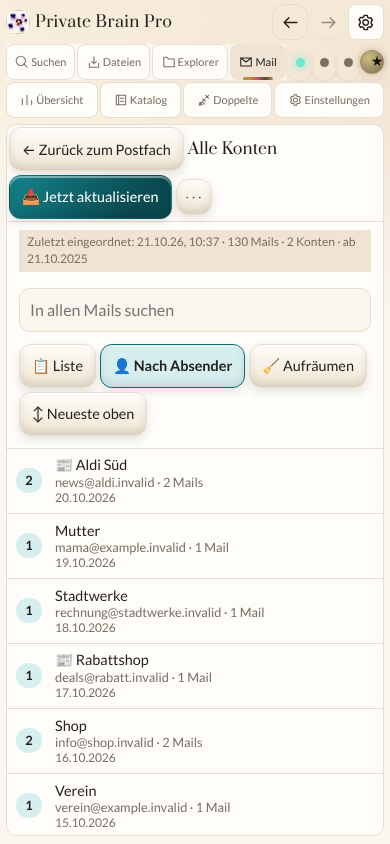
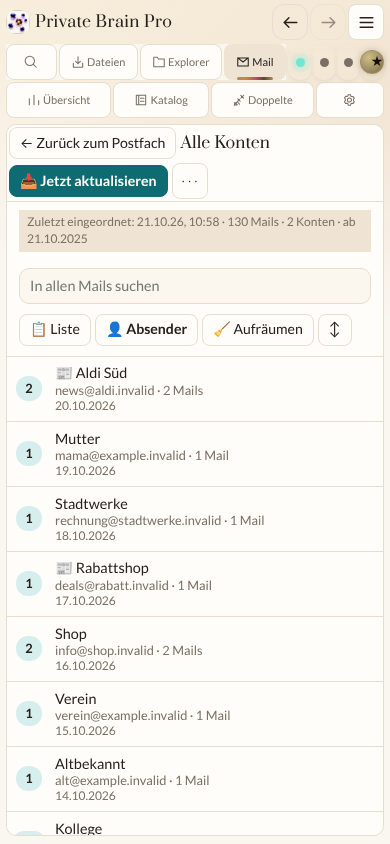
Explorer neueste oben mit ↕ und Inhaltssuche; flache Knöpfe; Lupe, Zahnrad und ☰
A3: Explorer zeigt die neuesten Dateien oben, ↕ dreht jede Sortierung um,
„auch im Inhalt“ sucht im Katalogtext; Mails aus „Alle Konten“ stehen nicht mehr
im Explorer. Auf Klaus' Wunsch flache Knöpfe (32 px, ohne 3D-Schatten) im
Postfach, in „Alle Konten“ und im Explorer; in der oberen Leiste stehen Suche und
Einstellungen nur noch als Lupe und Zahnrad, das App-Menü zeigt ☰ statt eines
zweiten Zahnrads.

Claude-Session: https://claude.ai/code/session_015dv9kh7qAxSqSbKYy1eETd

Changed region(s): [[0.0, 0.0616, 0.9538, 1.0], [0.6154, 0.5853, 0.6769, 0.6469], [0.9231, 0.0, 0.9538, 0.0616]]

diff --git a/assets/workspace.js b/assets/workspace.js
@@ -10,7 +10,7 @@
     libraryHelp:['Wähle einen separaten Ordner auf deinem Gerät. Neue Dateien werden dort als Kopie gespeichert; die Originale bleiben erhalten. Der Explorer öffnet die Kopien aus diesem Ordner.','Choose a separate folder on your device. New files are saved there as copies; originals are preserved. Explorer opens the copies from that folder.','Выберите отдельную папку на устройстве. Новые файлы сохраняются туда как копии; оригиналы остаются. Проводник открывает копии из этой папки.','Wybierz osobny folder na urządzeniu. Nowe pliki są tam zapisywane jako kopie; oryginały pozostają. Eksplorator otwiera kopie z tego folderu.'],
     choose:['Ablageordner wählen','Choose library folder','Выбрать папку','Wybierz folder'],pause:['Kopieren ausschalten','Turn off copying','Отключить копирование','Wyłącz kopiowanie'],
     copyFolder:['📁 Ordner in Ablage kopieren','📁 Copy folder to library','📁 Копировать папку','📁 Kopiuj folder do biblioteki'],linkFolder:['📁 Ordner verbinden','📁 Connect folder','📁 Подключить папку','📁 Połącz folder'],
-    up:['↑ Übergeordneter Ordner','↑ Parent folder','↑ На уровень выше','↑ Folder nadrzędny'],all:['Alle Dateien','All files','Все файлы','Wszystkie pliki'],byName:['Name A–Z','Name A–Z','Имя А–Я','Nazwa A–Z'],byDate:['Neueste zuerst','Newest first','Сначала новые','Najnowsze'],bySize:['Größe','Size','Размер','Rozmiar'],
+    up:['↑ Übergeordneter Ordner','↑ Parent folder','↑ На уровень выше','↑ Folder nadrzędny'],all:['Alle Dateien','All files','Все файлы','Wszystkie pliki'],byName:['Name','Name','Имя','Nazwa'],byDate:['Datum','Date','Дата','Data'],bySize:['Größe','Size','Размер','Rozmiar'],orderName:['↕ A → Z','↕ A → Z','↕ А → Я','↕ A → Z'],orderNameR:['↕ Z → A','↕ Z → A','↕ Я → А','↕ Z → A'],orderDate:['↕ Neueste oben','↕ Newest first','↕ Сначала новые','↕ Najnowsze u góry'],orderDateR:['↕ Älteste oben','↕ Oldest first','↕ Сначала старые','↕ Najstarsze u góry'],orderSize:['↕ Größte oben','↕ Largest first','↕ Сначала большие','↕ Największe u góry'],orderSizeR:['↕ Kleinste oben','↕ Smallest first','↕ Сначала маленькие','↕ Najmniejsze u góry'],inContent:['🔎 auch im Inhalt','🔎 also in content','🔎 также в содержимом','🔎 także w treści'],
     find:['Was möchtest du finden?','What would you like to find?','Что вы хотите найти?','Co chcesz znaleźć?'],findHelp:['Durchsuche E-Mails, Dokumente und Bilder gemeinsam nach ihrer Bedeutung.','Search emails, documents and images together by meaning.','Ищите письма, документы и изображения вместе по смыслу.','Szukaj wiadomości, dokumentów i obrazów według znaczenia.'],
     noFolder:['Noch kein Ablageordner gewählt. Einzeln gewählte Dateien sind nur in dieser Sitzung verfügbar. Für dauerhaften Zugriff einen Ordner verbinden oder einen Ablageordner wählen.','No library folder selected. Individually selected files are available for this session only. Connect a folder or choose a library for lasting access.','Папка не выбрана. Отдельно выбранные файлы доступны только в этом сеансе. Подключите папку для постоянного доступа.','Nie wybrano folderu. Wybrane pliki są dostępne tylko w tej sesji. Połącz folder, aby zachować dostęp.'],
     unsupported:['Dieser Browser unterstützt keine direkte Ordnerablage. Dateiimport und Suche funktionieren; Dateien müssen nach einem Neustart erneut ausgewählt werden. Für lokale Ordner Chrome oder Edge auf einem unterstützten Desktop verwenden.','This browser does not support direct folder storage. File import and search work; select files again after restarting. For local folders use Chrome or Edge on a supported desktop.','Браузер не поддерживает прямую запись в папку. Импорт и поиск работают; после перезапуска выберите файлы снова. Для папок используйте Chrome или Edge на поддерживаемом компьютере.','Przeglądarka nie obsługuje zapisu do folderu. Import i wyszukiwanie działają; po ponownym uruchomieniu wybierz pliki jeszcze raz. Dostęp do folderów wymaga obsługiwanej przeglądarki Chrome lub Edge na komputerze.'],
@@ -105,6 +105,8 @@
   function entries() {
     const out=[];
     for (const r of CATALOG) {
+      // Mails from "Alle Konten" have their own view; thousands of them would swamp the explorer.
+      if (r.mailIndex && !r.mailLegacy) continue;
       const locs = r.localSource ? [r.localSource] : [{path:r.path || r.name,dirId:r.dirId},...(r.dupes||[])];
       for (const loc of locs) out.push({r,path:loc.path||r.name,dirId:loc.dirId});
     }
@@ -121,10 +123,33 @@
     } catch (_) { toast(text('unavailable'),6000); }
   }
   function button(label, action) { const b=document.createElement('button');b.type='button';b.className='ghost';b.textContent=label;b.onclick=action;return b; }
-  function explorerState(){return {path:folderPath,filter:el('explorerFilter').value,sort:el('explorerSort').value};}
+  // Newest on top by default; ↕ turns any order around; the content switch also searches the file text.
+  let explorerReverse=false;
+  const orderBox=document.createElement('span');orderBox.className='explorer-order';
+  const orderButton=document.createElement('button');orderButton.type='button';orderButton.className='ghost';orderButton.id='explorerOrder';
+  const contentLabel=document.createElement('label');contentLabel.className='explorer-content';
+  const contentBox=document.createElement('input');contentBox.type='checkbox';contentBox.id='explorerContent';
+  const contentText=document.createElement('span');contentLabel.append(contentBox,contentText);orderBox.append(orderButton,contentLabel);
+  el('explorerSort').after(orderBox);
+  if(!el('explorerSort').dataset.chosen)el('explorerSort').value='date';
+  function orderLabel(){const k={name:'orderName',date:'orderDate',size:'orderSize'}[el('explorerSort').value]||'orderDate';orderButton.textContent=text(k+(explorerReverse?'R':''));orderButton.setAttribute('aria-pressed',String(explorerReverse));contentText.textContent=text('inContent');}
+  orderButton.onclick=()=>{explorerReverse=!explorerReverse;renderExplorer();};
+  contentBox.onchange=()=>renderExplorer();
+  function explorerState(){return {path:folderPath,filter:el('explorerFilter').value,sort:el('explorerSort').value,reverse:explorerReverse,content:contentBox.checked};}
   function restoreExplorer(state){
     folderPath=String(state?.path||'');el('explorerFilter').value=String(state?.filter||'');
-    el('explorerSort').value=['name','date','size'].includes(state?.sort)?state.sort:'name';renderExplorer();
+    el('explorerSort').value=['name','date','size'].includes(state?.sort)?state.sort:'date';
+    explorerReverse=state?.reverse===true;contentBox.checked=state?.content===true;renderExplorer();
+  }
+  const foldText=s=>String(s||'').toLocaleLowerCase().normalize('NFD').replace(/[\u0300-\u036f]/g,'').replace(/ß/g,'ss');
+  function explorerMatch(e,words){
+    if(!words.length)return true;
+    const name=foldText(e.r.name+' '+e.path);
+    if(words.every(w=>name.includes(w)))return true;
+    if(!contentBox.checked)return false;
+    const body=foldText([e.r.snippet,e.r.summary,e.r.mailBody,e.r.ocrText,e.r.caption].filter(Boolean).join(' '));
+    const stems=e.r.tf||{};
+    return words.every(w=>body.includes(w)||(typeof stem==='function'&&Object.hasOwn(stems,stem(w))));
   }
   function openFolder(path,{clear=false}={}){
     if(window.PBNavigation)return window.PBNavigation.folder(path,clear);
@@ -146,10 +171,11 @@
     if(extra?.owns(folderPath)){el('explorerPath').textContent=extra.label();el('explorerUp').disabled=false;extra.files(files,el('explorerFilter').value,el('explorerSort').value);return;}
     el('explorerPath').textContent=folderPath || text('all');
     el('explorerUp').disabled=!folderPath;
-    const filter=el('explorerFilter').value.toLocaleLowerCase();
-    const visible=all.filter(e=>(!folderPath || e.path.startsWith(folderPath+'/')) && (e.r.name+' '+e.path).toLocaleLowerCase().includes(filter));
-    const sort=el('explorerSort').value;
-    visible.sort((a,b)=>sort==='date'?b.r.date-a.r.date:sort==='size'?b.r.size-a.r.size:a.r.name.localeCompare(b.r.name));
+    orderLabel();
+    const words=foldText(el('explorerFilter').value).split(/\s+/).filter(Boolean);
+    const visible=all.filter(e=>(!folderPath || e.path.startsWith(folderPath+'/')) && explorerMatch(e,words));
+    const sort=el('explorerSort').value, flip=explorerReverse?-1:1;
+    visible.sort((a,b)=>flip*(sort==='date'?(b.r.date||0)-(a.r.date||0):sort==='size'?(b.r.size||0)-(a.r.size||0):a.r.name.localeCompare(b.r.name)));
     for (const e of visible) {
       const row=document.createElement('article');row.className='explorer-row';
       const info=document.createElement('div'), name=document.createElement('strong'), meta=document.createElement('div');
@@ -177,7 +203,7 @@
   }
   el('chooseLibrary').onclick=chooseLibrary;
   el('pauseLibrary').onclick=()=>{if(signing)return;library=null;localStorage.setItem('pb_library_enabled','0');refresh();};
-  el('explorerFilter').oninput=renderExplorer;el('explorerSort').onchange=renderExplorer;
+  el('explorerFilter').oninput=renderExplorer;el('explorerSort').onchange=()=>{el('explorerSort').dataset.chosen='1';explorerReverse=false;renderExplorer();};
   el('explorerHome').onclick=()=>openFolder('',{clear:true});
   el('explorerUp').onclick=()=>openFolder(folderPath.split('/').slice(0,-1).join('/'));
   new MutationObserver(refresh).observe(document.documentElement,{attributes:true,attributeFilter:['lang']});

diff --git a/native/native-toolbar.js b/native/native-toolbar.js
@@ -12,6 +12,7 @@
   const text=i=>(strings[document.documentElement.lang]||strings.de)[i];
   const captions={de:['Suchen','Dateien','Explorer','Mail','Übersicht','Katalog','Doppelte','Einstellungen'],en:['Search','Files','Explorer','Mail','Overview','Catalog','Duplicates','Settings'],ru:['Поиск','Файлы','Проводник','Почта','Обзор','Каталог','Дубликаты','Настройки'],pl:['Szukaj','Pliki','Eksplorator','Poczta','Pulpit','Katalog','Duplikaty','Ustawienia']};
   const pages=['search','intake','explorer','mail','dash','order','dupes','settings'];
+  const ICON_ONLY=new Set(['search','settings']);
   const paths={
     search:'M21 21l-5-5 M18 10a8 8 0 1 1-16 0 8 8 0 0 1 16 0',
     intake:'M12 3v12m-4-4 4 4 4-4 M4 14v7h16v-7',
@@ -21,7 +22,7 @@
     settings:'m9 3-.5 2-2 1-2-.5-2 3 1.5 1.5v3L2.5 15l2 3 2-.5 2 1L9 21h4l.5-2.5 2-1 2 .5 2-3-1.5-1.5v-3L19.5 9l-2-3-2 .5-2-1L13 3Z M14.5 12a3.5 3.5 0 1 1-7 0 3.5 3.5 0 0 1 7 0',
     back:'M20 12H4m6-6-6 6 6 6',next:'M4 12h16m-6-6 6 6-6 6',
     refresh:'M20 7V3l-4 4 M20 7a9 9 0 1 0 1 8',compose:'M14 5 19 10 M4 20l5-1L21 7l-5-5L4 14Z',
-    more:'M4 12h.1m7.9 0h.1m7.9 0h.1',reply:'m9 5-7 7 7 7V14c6 0 10 1 13 5-1-8-5-11-13-11Z',
+    more:'M4 12h.1m7.9 0h.1m7.9 0h.1',menu:'M4 6h16M4 12h16M4 18h16',reply:'m9 5-7 7 7 7V14c6 0 10 1 13 5-1-8-5-11-13-11Z',
     forward:'m15 5 7 7-7 7V14c-6 0-10 1-13 5 1-8 5-11 13-11Z',
     trash:'M3 6h18M9 6V3h6v3M5 6l1 15h12l1-15M10 10v7m4-7v7',
     all:'M5 5h14v14H5Z m3 7 3 3 5-6',view:'M4 3h16v18H4Z m4-13h8m-8 4h8m-8 4h6',
@@ -46,7 +47,9 @@
       node.append(icon(key),content);node.classList.add('compact-tool');
     }
     node.setAttribute('aria-label',label);node.title=label;
-    if(node.dataset.tab){
+    // Klaus 2026-10-21: magnifier and gear are self-explanatory; their words go, the name stays as tooltip.
+    if(node.dataset.tab&&ICON_ONLY.has(node.dataset.tab)){node.querySelector(':scope>.compact-caption')?.remove();node.classList.add('compact-icon-only');}
+    else if(node.dataset.tab){
       const value=(captions[document.documentElement.lang]||captions.de)[pages.indexOf(node.dataset.tab)];
       let caption=node.querySelector(':scope>.compact-caption');if(!caption){caption=make('span','compact-caption');caption.setAttribute('aria-hidden','true');node.append(caption);}
       if(caption.textContent!==value)caption.textContent=value;
@@ -119,7 +122,7 @@
     if(moreTitle.textContent!==text(0))moreTitle.textContent=text(0);
     if(optionsTitle.textContent!==text(1))optionsTitle.textContent=text(1);
     // Avoid rewriting the label/SVG when no translation has changed.
-    decorate(moreTitle,'more');decorate(optionsTitle,'settings');networkLabel();
+    decorate(moreTitle,'more');decorate(optionsTitle,'menu');networkLabel();
     document.querySelectorAll('.native-toolbar-row .tab').forEach(button=>decorate(button,button.dataset.tab));
     const navigation=document.querySelectorAll('.native-navigation button');decorate(navigation[0],'back');decorate(navigation[1],'next');
     decorate(document.querySelector('#themeToggle'),'moon');decorate(document.querySelector('#hardReload'),'refresh');

diff --git a/native/native-mail-index.js b/native/native-mail-index.js
@@ -33,9 +33,11 @@
     search: ['In allen Mails suchen', 'Search all emails', 'Поиск по всем письмам', 'Szukaj we wszystkich wiadomościach'],
     hits: ['Treffer', 'results', 'найдено', 'wyników'],
     list: ['📋 Liste', '📋 List', '📋 Список', '📋 Lista'],
-    senders: ['👤 Nach Absender', '👤 By sender', '👤 По отправителю', '👤 Według nadawcy'],
-    newest: ['↕ Neueste oben', '↕ Newest first', '↕ Сначала новые', '↕ Najnowsze u góry'],
-    oldest: ['↕ Älteste oben', '↕ Oldest first', '↕ Сначала старые', '↕ Najstarsze u góry'],
+    senders: ['👤 Absender', '👤 Senders', '👤 Отправители', '👤 Nadawcy'],
+    newest: ['Neueste', 'Newest', 'Новые', 'Najnowsze'],
+    oldest: ['Älteste', 'Oldest', 'Старые', 'Najstarsze'],
+    newestLong: ['Neueste oben', 'Newest first', 'Сначала новые', 'Najnowsze u góry'],
+    oldestLong: ['Älteste oben', 'Oldest first', 'Сначала старые', 'Najstarsze u góry'],
     back: ['← Alle Absender', '← All senders', '← Все отправители', '← Wszyscy nadawcy'],
     backList: ['← Zurück', '← Back', '← Назад', '← Wstecz'],
     empty: ['Keine Mails gefunden.', 'No emails found.', 'Писем не найдено.', 'Nie znaleziono wiadomości.'],
@@ -521,8 +523,10 @@
     const modeClean = button(t('clean'), () => { view.mode = 'clean'; selectedSender = null; openRecord = null; store(KEYS.view, view); draw(); });
     modeList.setAttribute('aria-pressed', String(view.mode === 'list')); modeSenders.setAttribute('aria-pressed', String(view.mode === 'senders')); modeClean.setAttribute('aria-pressed', String(view.mode === 'clean'));
     modeClean.dataset.mailAll = 'clean'; modeList.dataset.mailAll = 'list'; modeSenders.dataset.mailAll = 'senders';
-    const order = button(view.order === 'newest' ? t('newest') : t('oldest'), () => { view.order = view.order === 'newest' ? 'oldest' : 'newest'; store(KEYS.view, view); draw(); });
-    order.dataset.mailAll = 'order';
+    const order = button('↕ ', () => { view.order = view.order === 'newest' ? 'oldest' : 'newest'; store(KEYS.view, view); draw(); });
+    // On a phone only the arrow shows; the full name stays for tooltips and screen readers.
+    order.append(el('span', 'mail-all-order-label', view.order === 'newest' ? t('newest') : t('oldest')));
+    order.dataset.mailAll = 'order'; order.title = view.order === 'newest' ? t('newestLong') : t('oldestLong'); order.setAttribute('aria-label', order.title);
     switches.append(modeList, modeSenders, modeClean, order);
     panel.append(search, switches);
     if (keepFocus) { search.focus(); try { search.setSelectionRange(caret, caret); } catch { /* Not every input supports it. */ } }

diff --git a/native/native.css b/native/native.css
@@ -404,3 +404,34 @@ body .wrap { min-width:0;height:100vh;height:calc(100dvh - env(safe-area-inset-t
 .mail-all-run { display:flex; flex-wrap:wrap; gap:8px; align-items:center; justify-content:space-between; margin:4px 12px; padding:6px 0; border-top:1px solid var(--line); }
 .mail-all > .mail-undo { display:flex; flex-wrap:wrap; gap:8px; align-items:center; margin:0 12px; }
 .mail-all .mail-reader-actions .mail-button[aria-pressed=true] { background:var(--mail-soft); border-color:var(--mail-accent); font-weight:bold; }
+
+/* Flache Knöpfe (Klaus 2026-10-21: „flach wie bei Notion … nicht ganz so flach, müssen gut lesbar sein“;
+   Vorbild Workflow PDF, dort 30–32 px). Mehr Platz für Mails, Texte und Dokumente, auch am Handy. */
+#mailWorkspace .mail-app .mail-button, #pb-mail-dupes .mail-button {
+  min-height:32px; padding:4px 10px; font-size:.88rem; line-height:1.2; border-radius:8px;
+  box-shadow:none; background:var(--card); border:1px solid var(--line);
+}
+#mailWorkspace .mail-app .mail-button.mail-primary, #pb-mail-dupes .mail-button.mail-primary {
+  background:var(--mail-accent); border-color:var(--mail-accent); color:var(--card); font-weight:600;
+}
+#mailWorkspace .mail-app .mail-button:active, #pb-mail-dupes .mail-button:active { transform:none; background:var(--mail-soft); }
+#mailWorkspace .mail-app .mail-button.mail-primary:active { background:var(--mail-accent); filter:brightness(.92); }
+.mail-all-list .mail-item button { min-height:48px; padding:6px; }
+.mail-all-clean-row > .mail-button { min-height:32px; margin:0 12px 6px; }
+.mail-all > input[type=search] { min-height:36px; }
+.mail-all-switch { gap:4px; padding:6px 12px; }
+#explorerOrder { min-height:32px; padding:4px 10px; box-shadow:none; }
+.explorer-content { min-height:32px; font-size:.88rem; }
+@media(max-width:650px) {
+  .mail-all-switch { flex-wrap:nowrap; overflow-x:auto; overscroll-behavior-x:contain; scrollbar-width:none; }
+  .mail-all-switch > .mail-button { flex:none; white-space:nowrap; }
+}
+@media(max-width:650px) { .mail-all-order-label { display:none; } }
+
+/* Obere Leiste flacher (Klaus 2026-10-21); Suche und Einstellungen nur als Lupe und Zahnrad,
+   das App-Menü als ☰ statt eines zweiten Zahnrads. */
+.native-toolbar-row .tab { min-height:32px; padding:4px 8px!important; }
+.native-toolbar-row .tab.compact-icon-only { padding:4px 8px!important; }
+@media(pointer:coarse) { .compact-tool { min-height:36px!important; height:36px; min-width:36px; width:36px; } }
+.mail-all > * { flex-shrink:0; }
+.mail-all > input[type=search] { height:36px; padding:4px 10px; font-size:.9rem; }

diff --git a/assets/workspace.css b/assets/workspace.css
@@ -21,3 +21,6 @@ header .tools{max-width:100%;min-width:0}
 .explorer-row button{min-height:44px}.explorer-empty{padding:25px;line-height:1.7;color:var(--mut)}
 #explorerPath{overflow-wrap:anywhere}#libraryStatus{overflow-wrap:anywhere}
 @media(max-width:650px){.main-pages{gap:4px}.main-pages .tab{font-size:.8rem;padding:10px 5px;white-space:normal}.explorer-layout{grid-template-columns:1fr}#explorerTree{border-right:0;border-bottom:1px solid var(--line);max-height:180px;padding:0 0 10px}.explorer-toolbar>*{max-width:100%}.explorer-row{padding:12px}.workspace-tools .tab{flex:1}.search-totals{gap:6px}.search-totals span{font-size:.8rem;padding:10px}.library-setup .btnrow{flex-wrap:wrap}}
+.explorer-order{display:inline-flex;flex-wrap:wrap;gap:8px;align-items:center}
+.explorer-content{display:inline-flex;align-items:center;gap:6px;min-height:44px;cursor:pointer}
+.explorer-toolbar .explorer-content input{flex:none;min-width:0;width:22px;height:22px;padding:0;margin:0}

diff --git a/docs/EXPLORER-SORTIEREN-UND-INHALT.md b/docs/EXPLORER-SORTIEREN-UND-INHALT.md
@@ -1,0 +1,61 @@
+# Explorer: neueste oben, umkehrbar, Suche im Inhalt (2026-10-21)
+
+Bauabschnitt **A3** aus dem [Plan „Ordnen, Sortieren, Suchen“](PLAN_2026-10-21_ordnen-sortieren-suchen.md):
+eingefügte Dateien wie Gehaltsabrechnungen, Arztbriefe und Rechnungen schnell finden.
+Noch **nicht** in einer veröffentlichten Vorschau.
+
+## Was Klaus sieht und wo er tippt
+
+- **Explorer** zeigt jetzt von Anfang an **die neuesten Dateien oben** (Sortierung „Datum“).
+- Daneben steht **↕ Neueste oben**. Ein Tipp dreht die Reihenfolge um („↕ Älteste oben“).
+  Bei „Name“ heißt der Knopf „↕ A → Z“ bzw. „↕ Z → A“, bei „Größe“ „↕ Größte oben“ bzw.
+  „↕ Kleinste oben“. Wer die Sortierung wechselt, beginnt in deren natürlicher Reihenfolge.
+- **🔎 auch im Inhalt** (Häkchen): das Suchfeld findet dann auch Wörter im Text der Datei,
+  zum Beispiel „Bandscheibe“ im Arztbrief oder „Lohnsteuer brutto“ in der Gehaltsabrechnung.
+  Alle Wörter müssen vorkommen; Umlaute zählen nicht („zahlerstand“ findet „Zählerstand“).
+- Zurück aus einer geöffneten Datei behält Ordner, Suchwort, Reihenfolge und Häkchen.
+- Mails aus **👥 Alle Konten** stehen nicht mehr im Explorer; sie haben ihre eigene Ansicht.
+  Vorher hätte der Erstabruf für jeden Absender einen eigenen Ordner angelegt und „Alle Dateien“
+  mit Tausenden Mails gefüllt. Mails, die früher einzeln importiert wurden, bleiben sichtbar.
+
+## Grenzen
+
+- Gesucht wird im gespeicherten Katalogtext der Datei (Steckbrief, Zusammenfassung, erkannte
+  Wörter). Ein Scan ohne Texterkennung wird nur über seinen Namen gefunden.
+- Die Suche ist eine Wortsuche; Bedeutungssuche kommt mit A6.
+
+## Prüfung (2026-10-21)
+
+- `node tools/native/test-explorer-order.mjs`: **17 grün** (Standard neueste oben, ↕ für
+  Datum, Name und Größe, Inhaltssuche, alle Wörter, Umlaute, Rückweg, Englisch, 360 px,
+  Knopfgröße, „Alle Konten“-Mails nicht im Explorer).
+- Die vorhandenen `test-navigation` (22) und `test-web` (102) bleiben grün.
+- `tools/e2e-workspace.mjs` bricht hier in der Sitzung an zwei Stellen ab (gemeinsame Suche,
+  Ordnerablage nach Neuladen). Ohne die Änderung bricht sie an denselben Stellen ab, die
+  Ursache liegt also in dieser Umgebung. In der CI läuft sie vollständig.
+
+# Flache Knöpfe (Klaus 2026-10-21)
+
+Klaus: *„Die Button sollen flach sein, wie bei Notion … sie müssen nicht so dick sein …
+damit die Übersichtlichkeit erhalten bleibt und die eigentlichen E-Mails oder Texte oder
+Dokumente leichter zu finden sind … Sie müssen auch nicht ganz so flach sein wie die
+Notion-Button. Müssen ja immer noch gut lesbar sein.“*
+
+- Vorbild ist Workflow PDF (`assets/style.css`, Block „Handy: flachere Knöpfe“, 30–32 px).
+- Im Postfach, in „Alle Konten“, im Aufräumen, im Doppelte-Kasten und beim ↕ im Explorer:
+  **32 px hoch**, ohne 3D-Schatten, mit dünnem Rand, Schrift 0,88 rem. Der Hauptknopf bleibt
+  farbig gefüllt. Mail-Zeilen in „Alle Konten“ sind 48 statt 60 px hoch.
+- Am Handy stehen „Liste · Absender · Aufräumen · ↕“ in **einer** Zeile. Der ↕-Knopf zeigt
+  dort nur den Pfeil; sein voller Name bleibt für Vorlesehilfen und Tooltip.
+- Proben messen jetzt **30–36 px**: flach, aber gut zu treffen.
+- **Obere Leiste** (Klaus 2026-10-21): „Suche“ und „Einstellungen“ ohne Wort, nur **Lupe** und
+  **Zahnrad** (Name bleibt als Tooltip und für Vorlesehilfen); „Mail“ und die übrigen behalten
+  ihr Wort. Das App-Menü oben rechts zeigt **☰** (drei Striche) statt eines zweiten Zahnrads.
+  Klaus: „Striche sind besser.“ Die drei Punkte bleiben für „Weitere Ansichten/Aktionen“.
+  Leistenknöpfe 32 px, auf Touch-Geräten 36 px (vorher 36/40).
+- Gefunden beim Nachmessen: die einzeilige, wischbare Knopfreihe wurde in der Flex-Spalte
+  zusammengedrückt (abgeschnittene Knöpfe). Behoben (`flex-shrink:0`); neue Prüfung
+  „in einer Zeile und nicht abgeschnitten“, Gegenprobe ohne die Reparatur: **gefangen**.
+- Nur in der Pro-App (`native/native.css`). Die PWA bleibt unverändert.
+- Grenze: 32 px liegen unter der oft empfohlenen Tippfläche von 44 px. Das ist so gewollt;
+  am Tablet ist das noch nicht gemessen.

diff --git a/docs/BRIEF_2026-10-21_nachfolge-ordnen-sortieren-suchen.md b/docs/BRIEF_2026-10-21_nachfolge-ordnen-sortieren-suchen.md
@@ -21,7 +21,8 @@ bei grünen relevanten Prüfungen (CLAUDE.md, „Pro-App: Stand 2026-10-19“).
 | Grundlage: alle Konten, 12 Monate, automatisch, Überschreiben statt Doppeln | gebaut, CI grün (inkl. native-smoke) |
 | A1: Bündel nach Absender, ↕, Wortsuche über alle Konten | gebaut, CI grün |
 | A2: Newsletter nach Ablaufdatum, Papierkorb + Rückgängig, Ist Werbung/wichtig | gebaut, lokal grün; CI siehe PR #48 |
-| A3: Dateien neueste oben/umkehrbar, Inhaltssuche | offen |
+| A3: Dateien neueste oben/umkehrbar, Inhaltssuche; „Alle Konten“-Mails nicht im Explorer | gebaut, lokal grün |
+| Flache Knöpfe (Klaus 2026-10-21) im Postfach, Alle Konten, Explorer-↕ | gebaut; Regel oben in CLAUDE.md |
 | A4: Kategorien per Vorschlag (Rechnungen, Gehalt, Gesundheit, Verträge, Versicherung) | offen |
 | A5: Übergabe aus Workflow PDF Pro über Android-Teilen (`ACTION_SEND`, nur PDF) | offen, Sendeseite baut Codex |
 | A6: Bedeutungssuche nur in Mails | offen, wartet auf Modell im APK |
@@ -68,9 +69,8 @@ offen und die CI grün, zusammenführen; sonst zuerst die CI reparieren.
 
 1. PR #48 zusammenführen, sobald die CI grün ist. Codex oder Klaus um eine Vorschau bitten.
    Die Versionsnummer wird in einem eigenen kleinen PR erhöht (wie PR #46).
-2. A3 (Explorer): ↕ bei „Datum“, Standard neueste oben, „🔎 auch im Inhalt“ über den
-   Katalogtext. `assets/workspace.js` `explorerSort`; Rückweg muss die Sortierung behalten
-   (`explorerState`).
+2. Klaus fragen, ob die flachen Knöpfe auch im übrigen App-Rahmen (Kopfleiste, Einstellungen,
+   Dateien hinzufügen) gelten sollen; bisher nur Postfach, „Alle Konten“, Explorer-↕.
 3. A4: Kategorien per Vorschlag, nur Ansicht, „Gehört nicht hierher“ lernt.
 4. Handbuch-Kapitel in PR #47 nachtragen.
 5. Am Gerät zu prüfen (Klaus): echter Erstabruf mit allen Konten, Dauer, „Beim Anbieter öffnen“,

diff --git a/CLAUDE.md b/CLAUDE.md
@@ -1,6 +1,11 @@
 # Private Brain Pro — Sitzungs-Anker
 
-**Ordnen, Sortieren, Suchen (2026-10-21): Plan freigegeben, Grundlage + A1 + A2 gebaut, noch keine Vorschau.**
+**Knöpfe flach halten (Klaus 2026-10-21):** „flach wie bei Notion, aber nicht ganz so flach, gut lesbar“ – damit
+Mails und Dokumente Platz haben, auch am Handy. Richtwert 32 px, ohne 3D-Schatten (Vorbild Workflow PDF 30–32 px).
+Neue Knöpfe nicht größer bauen. Obere Leiste: Suche/Einstellungen nur Lupe/Zahnrad, App-Menü ☰. [Details](docs/EXPLORER-SORTIEREN-UND-INHALT.md#flache-knöpfe-klaus-2026-10-21).
+
+**Ordnen, Sortieren, Suchen (2026-10-21): Plan freigegeben, Grundlage + A1 + A2 + A3 gebaut, noch keine Vorschau.**
+A3: Explorer neueste oben, ↕, „🔎 auch im Inhalt“: [Explorer](docs/EXPLORER-SORTIEREN-UND-INHALT.md).
 Nachfolge: [Brief](docs/BRIEF_2026-10-21_nachfolge-ordnen-sortieren-suchen.md). Klaus: GitHub-Kommentare nicht beobachten; CI selbst prüfen.
 A2 „🧹 Aufräumen“: Newsletter nach Ablaufdatum, Papierkorb des Anbieters + Rückgängig (`locate` über Message-ID),
 Freigabe je Absender, Stern/„Ist wichtig“/zurückgeholte Mails nie automatisch: [Aufräumen](docs/AUFRAEUMEN-NEWSLETTER.md).
@@ -8,7 +13,7 @@ Mail → „👥 Alle Konten“: Kopfzeilen und Text aller Konten (12 Monate, ke
 Überschreiben statt Doppeln über `Message-ID`, unsichere Zwillinge in „Doppelte“, Bündel nach
 Absender (↕), Wortsuche über alle Konten; automatisch beim Öffnen und alle 30 Minuten.
 `MailIndex`/`index`/`indexText`, `native/native-mail-index.js`. Echte Konten/Tablet nicht gemessen.
-Nächste Abschnitte A3 (Dateien) bis A6:
+Nächste Abschnitte A4 (Kategorien) bis A6:
 [Plan](docs/PLAN_2026-10-21_ordnen-sortieren-suchen.md), [Bedienung/Grenzen](docs/ALLE-KONTEN-UND-ABSENDER.md).
 
 **Vorschau .19 veröffentlicht (2026-10-21), Nachfolgeversion von .18.**

diff --git a/docs/PLAN_2026-10-21_ordnen-sortieren-suchen.md b/docs/PLAN_2026-10-21_ordnen-sortieren-suchen.md
@@ -2,7 +2,8 @@
 
 **Stand: von Klaus am 2026-10-21 freigegeben („Ja.“). Grundlage und A1 gebaut:
 [Alle Konten und Absender](ALLE-KONTEN-UND-ABSENDER.md). A2 gebaut:
-[Aufräumen](AUFRAEUMEN-NEWSLETTER.md). A3–A6 offen, siehe
+[Aufräumen](AUFRAEUMEN-NEWSLETTER.md). A3 gebaut:
+[Explorer](EXPLORER-SORTIEREN-UND-INHALT.md). A4–A6 offen, siehe
 [Nachfolge-Brief](BRIEF_2026-10-21_nachfolge-ordnen-sortieren-suchen.md).**
 Grundlage: [Brief der Plansitzung](BRIEF_2026-10-21_plansitzung-ordnen-sortieren-suchen.md)
 (liegt auf Zweig `ccr-1b365b80-fw60yy`, PR #47).
